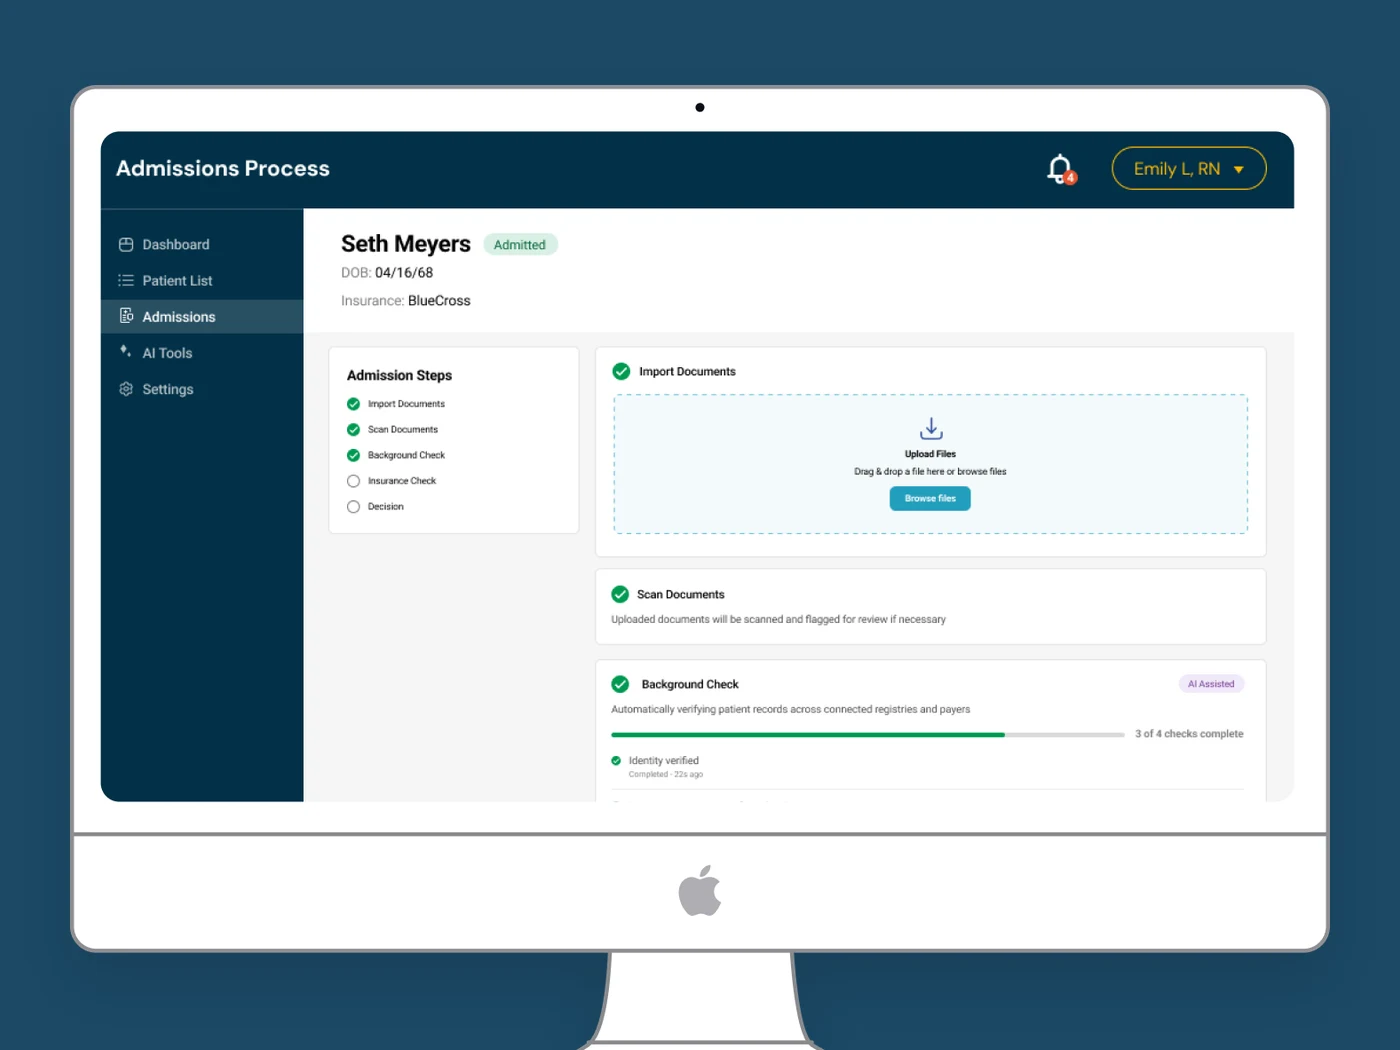
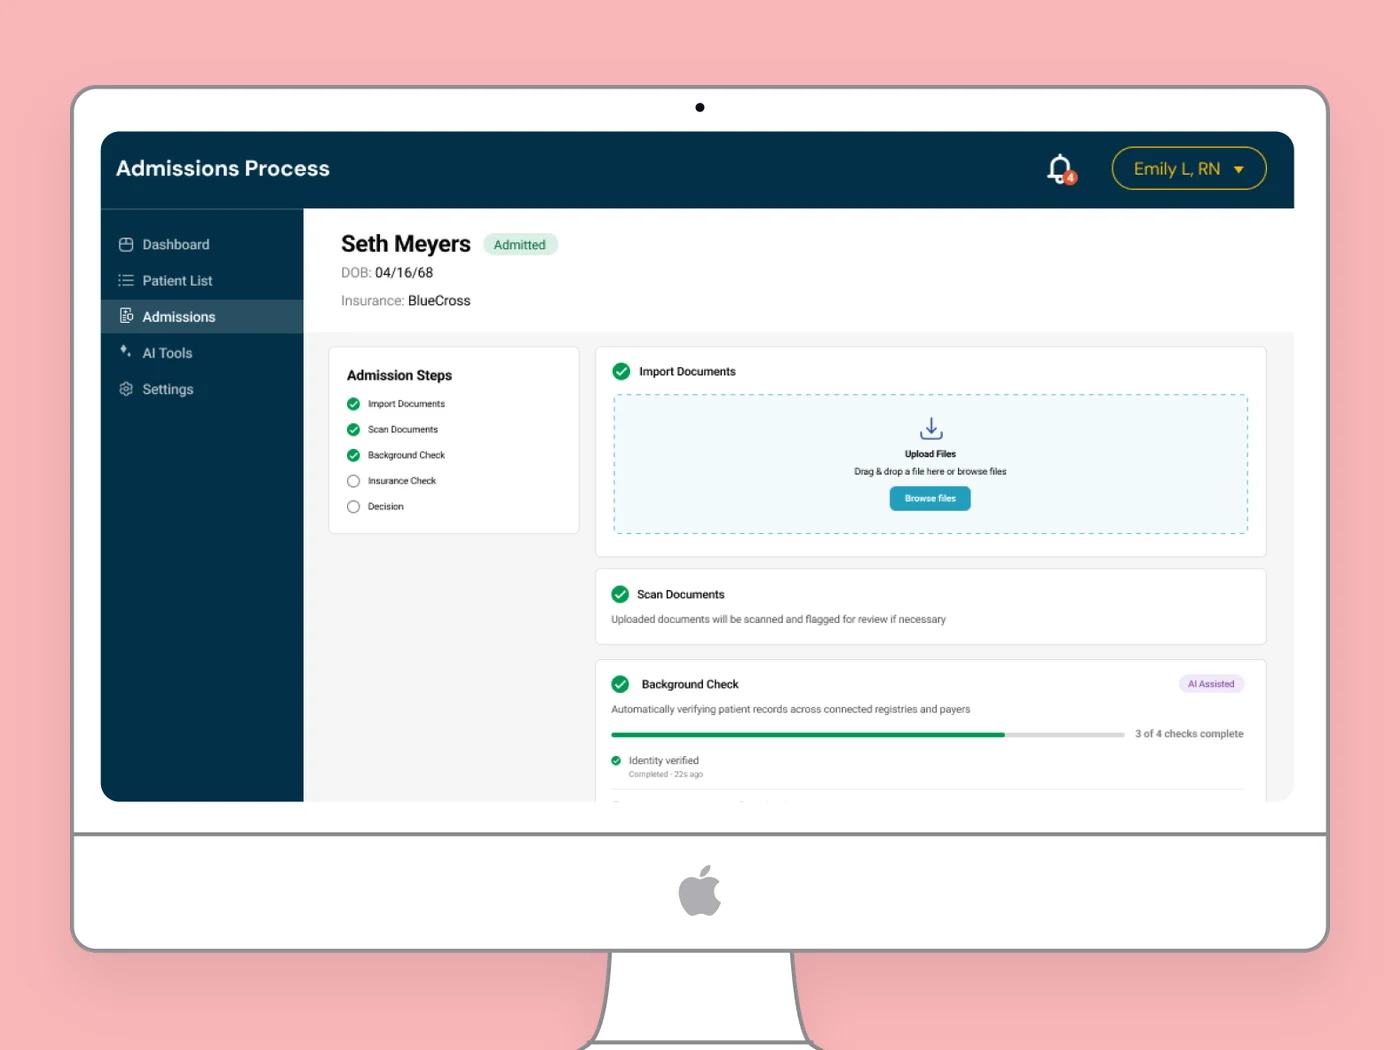
Site: new color palette (Crimson Ink, Dusty Rose, Cosmic Latte, Burnt Sienna, Arctic Blue) and recolored covers
Claude-Session: https://claude.ai/code/session_01YaSxYVnyE2Vr4vMTZscBbj

Changed region(s): [[0.0, 0.0, 1.0, 1.0]]

diff --git a/case-study-goodreads.html b/case-study-goodreads.html
@@ -20,35 +20,35 @@
 <link href="https://fonts.googleapis.com/css2?family=Rubik:ital,wght@0,400;0,500;0,600;0,700;1,500;1,600&display=swap" rel="stylesheet">
 <style>
   :root {
-    --paper: #FFFFFF;
-    --ink: #18181F;
-    --ink-soft: #6B6B76;
-    --line: #E7E6ED;
-    --accent: #C72A7C;
-    --accent-hover: #7B3294;
+    --paper: #F6F3CF;
+    --ink: #2B0E15;
+    --ink-soft: #6E5058;
+    --line: #E3DDAA;
+    --accent: #8B162B;
+    --accent-hover: #C9500E;
     --teal: #1B4965;
     padding-top: env(safe-area-inset-top, 0px);
     padding-bottom: env(safe-area-inset-bottom, 0px);
   }
   :root:not([data-theme="light"]) {
     @media (prefers-color-scheme: dark) {
-      --paper: #121117;
-      --ink: #EFEEF4;
-      --ink-soft: #A5A3B0;
-      --line: #2B2A34;
-      --accent: #F24EA3;
-      --accent-hover: #E896F0;
+      --paper: #2A0A12;
+      --ink: #F6F3CF;
+      --ink-soft: #D9BFB2;
+      --line: #4D1E29;
+      --accent: #F9B6B8;
+      --accent-hover: #F37521;
     }
   }
   :root[data-theme="dark"] {
-    --paper: #121117;
-    --ink: #EFEEF4;
-    --ink-soft: #A5A3B0;
-    --line: #2B2A34;
-    --accent: #F24EA3;
-    --accent-hover: #E896F0;
+    --paper: #2A0A12;
+    --ink: #F6F3CF;
+    --ink-soft: #D9BFB2;
+    --line: #4D1E29;
+    --accent: #F9B6B8;
+    --accent-hover: #F37521;
   }
-  .grad-synth-warm { background: linear-gradient(135deg,#E0247A 0%,#9A3796 55%,#4A2E6E 100%); }
+  .grad-synth-warm { background: linear-gradient(135deg,#8B162B 0%,#C9500E 55%,#5A1020 100%); }
 
   html { scroll-padding-top: env(safe-area-inset-top, 0px); }
   * { box-sizing: border-box; }
@@ -120,11 +120,11 @@
   }
 
   .disclaimer {
-    background: #FBEFF5; border-left: 3px solid var(--accent); border-radius: 4px;
+    background: #FADADC; border-left: 3px solid var(--accent); border-radius: 4px;
     padding: 14px 18px; font-size: 13px; color: var(--ink); margin: 0 0 40px; line-height: 1.6;
   }
-  :root[data-theme="dark"] .disclaimer { background: #2A1A22; }
-  @media (prefers-color-scheme: dark) { :root:not([data-theme="light"]) .disclaimer { background: #2A1A22; } }
+  :root[data-theme="dark"] .disclaimer { background: #3A1019; }
+  @media (prefers-color-scheme: dark) { :root:not([data-theme="light"]) .disclaimer { background: #3A1019; } }
 
   .block { margin: 40px 0; }
   .block p {
@@ -201,7 +201,7 @@
   .annot-phones figure { margin: 0; flex: 1 1 0; min-width: 0; }
   .ph { position: relative; border: 1px solid var(--line); border-radius: 18px; overflow: hidden; box-shadow: 0 12px 32px rgba(0,0,0,0.08); }
   .ph img { width: 100%; display: block; }
-  .hl { position: absolute; border: 2px solid var(--accent); border-radius: 6px; background: rgba(199,42,124,0.05); }
+  .hl { position: absolute; border: 2px solid var(--accent); border-radius: 6px; background: rgba(139,22,43,0.05); }
   .hl.r .pin { left: auto; right: -2px; transform: translate(45%, -55%); }
   .problem-list span.tag { display: inline-block; }
   .pin {
@@ -228,8 +228,8 @@
   .plist .more { padding: 0 4px 14px 42px; }
   .plist .more p { margin: 0 0 10px; font-size: 14px; color: var(--ink-soft); }
   .plist .tag { display: inline-block; margin: 0 6px 4px 0; font-size: 10.5px; letter-spacing: 0.06em; text-transform: uppercase; border-radius: 100px; padding: 3px 10px; border: 1px solid; }
-  .plist .tag.obs { color: var(--accent); border-color: var(--accent); background: rgba(199,42,124,0.08); }
-  .plist .tag.own { color: var(--accent-hover); border-color: var(--accent-hover); background: rgba(123,50,148,0.08); }
+  .plist .tag.obs { color: var(--accent); border-color: var(--accent); background: rgba(139,22,43,0.08); }
+  .plist .tag.own { color: var(--accent-hover); border-color: var(--accent-hover); background: rgba(201,80,14,0.08); }
   @media (prefers-reduced-motion: reduce) { .plist summary::after { transition: none; } }
 
   .plist a.tag { text-decoration: none; }
@@ -237,19 +237,19 @@
   .plist a.tag.rev:hover { background: rgba(27,73,101,0.16); }
   .plist .tag.test { color: var(--ink-soft); border-style: dashed; border-color: var(--ink-soft); background: transparent; }
   .pill-key { font-size: 12.5px; color: var(--ink-soft); margin: 4px 0 0; }
-  :root[data-theme="dark"] .plist .tag.rev { color: #6FD0E8; border-color: #6FD0E8; background: rgba(111,208,232,0.10); }
-  @media (prefers-color-scheme: dark) { :root:not([data-theme="light"]) .plist .tag.rev { color: #6FD0E8; border-color: #6FD0E8; background: rgba(111,208,232,0.10); } }
+  :root[data-theme="dark"] .plist .tag.rev { color: #BAD2E8; border-color: #BAD2E8; background: rgba(186,210,232,0.10); }
+  @media (prefers-color-scheme: dark) { :root:not([data-theme="light"]) .plist .tag.rev { color: #BAD2E8; border-color: #BAD2E8; background: rgba(186,210,232,0.10); } }
   .plist .more a:not(.tag) { color: var(--accent); text-underline-offset: 2px; }
   .plist .more a:not(.tag):hover { color: var(--accent-hover); }
 
-  .plist .tag.int { color: #17705F; border-color: #17705F; background: rgba(78,201,176,0.16); }
-  :root[data-theme="dark"] .plist .tag.int { color: #4EC9B0; border-color: #4EC9B0; background: rgba(78,201,176,0.12); }
-  @media (prefers-color-scheme: dark) { :root:not([data-theme="light"]) .plist .tag.int { color: #4EC9B0; border-color: #4EC9B0; background: rgba(78,201,176,0.12); } }
+  .plist .tag.int { color: #A94A0A; border-color: #A94A0A; background: rgba(243,117,33,0.16); }
+  :root[data-theme="dark"] .plist .tag.int { color: #F37521; border-color: #F37521; background: rgba(243,117,33,0.12); }
+  @media (prefers-color-scheme: dark) { :root:not([data-theme="light"]) .plist .tag.int { color: #F37521; border-color: #F37521; background: rgba(243,117,33,0.12); } }
   .reader { border: 1px solid var(--line); border-radius: 12px; padding: 22px 24px; margin: 16px 0 0; }
   .reader .who { display: flex; flex-wrap: wrap; gap: 8px; margin-bottom: 14px; }
-  .reader .who .tag { font-size: 10.5px; letter-spacing: 0.06em; text-transform: uppercase; border-radius: 100px; padding: 3px 10px; border: 1px solid #17705F; color: #17705F; background: rgba(78,201,176,0.16); }
-  :root[data-theme="dark"] .reader .who .tag { color: #4EC9B0; border-color: #4EC9B0; background: rgba(78,201,176,0.12); }
-  @media (prefers-color-scheme: dark) { :root:not([data-theme="light"]) .reader .who .tag { color: #4EC9B0; border-color: #4EC9B0; background: rgba(78,201,176,0.12); } }
+  .reader .who .tag { font-size: 10.5px; letter-spacing: 0.06em; text-transform: uppercase; border-radius: 100px; padding: 3px 10px; border: 1px solid #A94A0A; color: #A94A0A; background: rgba(243,117,33,0.16); }
+  :root[data-theme="dark"] .reader .who .tag { color: #F37521; border-color: #F37521; background: rgba(243,117,33,0.12); }
+  @media (prefers-color-scheme: dark) { :root:not([data-theme="light"]) .reader .who .tag { color: #F37521; border-color: #F37521; background: rgba(243,117,33,0.12); } }
   .reader ul { margin: 0 0 10px; padding-left: 20px; }
   .reader li { font-size: 14px; color: var(--ink-soft); margin-bottom: 6px; }
   .reader .small { font-size: 12.5px; color: var(--ink-soft); margin: 0; }
@@ -295,9 +295,9 @@
   .v2b { font-size: 12.5px; padding: 5px 12px; border-radius: 8px; border: 1px solid var(--line); color: var(--ink); background: var(--paper); }
   .v2list { list-style: none; margin: 0; padding: 0; display: grid; gap: 18px; }
   .v2list li { display: flex; gap: 14px; align-items: flex-start; }
-  .v2list .tag { display: inline-block; margin-top: 6px; font-size: 10.5px; letter-spacing: 0.06em; text-transform: uppercase; border-radius: 100px; padding: 3px 10px; border: 1px solid #17705F; color: #17705F; background: rgba(78,201,176,0.16); }
-  :root[data-theme="dark"] .v2list .tag { color: #4EC9B0; border-color: #4EC9B0; background: rgba(78,201,176,0.12); }
-  @media (prefers-color-scheme: dark) { :root:not([data-theme="light"]) .v2list .tag { color: #4EC9B0; border-color: #4EC9B0; background: rgba(78,201,176,0.12); } }
+  .v2list .tag { display: inline-block; margin-top: 6px; font-size: 10.5px; letter-spacing: 0.06em; text-transform: uppercase; border-radius: 100px; padding: 3px 10px; border: 1px solid #A94A0A; color: #A94A0A; background: rgba(243,117,33,0.16); }
+  :root[data-theme="dark"] .v2list .tag { color: #F37521; border-color: #F37521; background: rgba(243,117,33,0.12); }
+  @media (prefers-color-scheme: dark) { :root:not([data-theme="light"]) .v2list .tag { color: #F37521; border-color: #F37521; background: rgba(243,117,33,0.12); } }
   @media (max-width: 900px) { .anat { grid-template-columns: repeat(2, minmax(0, 1fr)); } .v2 { grid-template-columns: 1fr; gap: 28px; } }
   @media (max-width: 560px) { .anat { grid-template-columns: 1fr; } }
   @media (max-width: 700px) { .ph-flat { overflow-x: auto; } .zoomwrap { min-width: 640px; } .v2card { flex-direction: column; } .v2card img { width: 80px; height: 115px; } .newel { flex-wrap: wrap; } .v2 > * { min-width: 0; } }

diff --git a/index.html b/index.html
@@ -20,41 +20,41 @@
 <link href="https://fonts.googleapis.com/css2?family=Rubik:ital,wght@0,400;0,500;0,600;0,700;1,500;1,600&display=swap" rel="stylesheet">
 <style>
   :root {
-    --paper: #FFFFFF;
-    --ink: #18181F;
-    --ink-soft: #6B6B76;
-    --line: #E7E6ED;
-    --accent: #C72A7C;
-    --accent-hover: #7B3294;
+    --paper: #F6F3CF;
+    --ink: #2B0E15;
+    --ink-soft: #6E5058;
+    --line: #E3DDAA;
+    --accent: #8B162B;
+    --accent-hover: #C9500E;
     padding-top: env(safe-area-inset-top, 0px);
     padding-bottom: env(safe-area-inset-bottom, 0px);
   }
   :root:not([data-theme="light"]) {
     @media (prefers-color-scheme: dark) {
-      --paper: #121117;
-      --ink: #EFEEF4;
-      --ink-soft: #A5A3B0;
-      --line: #2B2A34;
-      --accent: #F24EA3;
-      --accent-hover: #E896F0;
+      --paper: #2A0A12;
+      --ink: #F6F3CF;
+      --ink-soft: #D9BFB2;
+      --line: #4D1E29;
+      --accent: #F9B6B8;
+      --accent-hover: #F37521;
     }
   }
   :root[data-theme="dark"] {
-    --paper: #121117;
-    --ink: #EFEEF4;
-    --ink-soft: #A5A3B0;
-    --line: #2B2A34;
-    --accent: #F24EA3;
-    --accent-hover: #E896F0;
+    --paper: #2A0A12;
+    --ink: #F6F3CF;
+    --ink-soft: #D9BFB2;
+    --line: #4D1E29;
+    --accent: #F9B6B8;
+    --accent-hover: #F37521;
   }
 
   /* gradient tile tokens, derived from the two reference palettes */
-  .grad-synth      { background: linear-gradient(135deg,#E0247A 0%,#7B3294 32%,#332B5E 60%,#1B4965 82%,#4EC9B0 100%); }
-  .grad-synth-warm { background: linear-gradient(135deg,#E0247A 0%,#9A3796 55%,#4A2E6E 100%); }
-  .grad-synth-cool { background: linear-gradient(135deg,#332B5E 0%,#1B4965 55%,#4EC9B0 100%); }
-  .grad-outrun     { background: linear-gradient(135deg,#140F3C 0%,#241B7A 28%,#C4568A 58%,#E896F0 82%,#6FD0E8 100%); }
+  .grad-synth      { background: linear-gradient(135deg,#8B162B 0%,#C9500E 32%,#332B5E 60%,#1B4965 82%,#F37521 100%); }
+  .grad-synth-warm { background: linear-gradient(135deg,#8B162B 0%,#C9500E 55%,#5A1020 100%); }
+  .grad-synth-cool { background: linear-gradient(135deg,#332B5E 0%,#1B4965 55%,#F37521 100%); }
+  .grad-outrun     { background: linear-gradient(135deg,#140F3C 0%,#241B7A 28%,#C4568A 58%,#F37521 82%,#BAD2E8 100%); }
   .grad-outrun-dark{ background: linear-gradient(135deg,#140F3C 0%,#241B7A 55%,#C4568A 100%); }
-  .grad-outrun-pop { background: linear-gradient(135deg,#C4568A 0%,#E896F0 55%,#6FD0E8 100%); }
+  .grad-outrun-pop { background: linear-gradient(135deg,#C4568A 0%,#F37521 55%,#BAD2E8 100%); }
 
   html { scroll-padding-top: env(safe-area-inset-top, 0px); }
   * { box-sizing: border-box; }
@@ -234,9 +234,9 @@
   }
 
   /* gradient placeholders from the Synthwave and Outrun palettes */
-  .grad-synth      { background: linear-gradient(135deg,#E0247A 0%,#7B3294 32%,#332B5E 60%,#1B4965 82%,#4EC9B0 100%); }
-  .grad-outrun     { background: linear-gradient(135deg,#140F3C 0%,#241B7A 28%,#C4568A 58%,#E896F0 82%,#6FD0E8 100%); }
-  .grad-outrun-pop { background: linear-gradient(135deg,#C4568A 0%,#E896F0 55%,#6FD0E8 100%); }
+  .grad-synth      { background: linear-gradient(135deg,#8B162B 0%,#C9500E 32%,#332B5E 60%,#1B4965 82%,#F37521 100%); }
+  .grad-outrun     { background: linear-gradient(135deg,#140F3C 0%,#241B7A 28%,#C4568A 58%,#F37521 82%,#BAD2E8 100%); }
+  .grad-outrun-pop { background: linear-gradient(135deg,#C4568A 0%,#F37521 55%,#BAD2E8 100%); }
 
   @media (prefers-reduced-motion: reduce) {
     .tile-visual, .tile-cover, .tile-bg, .tile-title, .tile-cta .arrow { transition: none; }
@@ -370,7 +370,7 @@
       <!-- PROJECT 4 (coming soon) -->
       <div class="tile soon" aria-label="Coming soon">
         <div class="tile-visual">
-          <div class="tile-bg" style="background:linear-gradient(135deg,#C9B6E4 0%,#F0D3EE 55%,#F9D6E8 100%)"></div>
+          <div class="tile-bg" style="background:#F9B6B8"></div>
         </div>
         <div class="tile-caption">
           <div class="tile-meta">Concept project · 2026</div>

diff --git a/case-study-filters.html b/case-study-filters.html
@@ -18,35 +18,35 @@
 <link href="https://fonts.googleapis.com/css2?family=Rubik:ital,wght@0,400;0,500;0,600;0,700;1,500;1,600&display=swap" rel="stylesheet">
 <style>
   :root {
-    --paper: #FFFFFF;
-    --ink: #18181F;
-    --ink-soft: #6B6B76;
-    --line: #E7E6ED;
-    --accent: #C72A7C;
-    --accent-hover: #7B3294;
+    --paper: #F6F3CF;
+    --ink: #2B0E15;
+    --ink-soft: #6E5058;
+    --line: #E3DDAA;
+    --accent: #8B162B;
+    --accent-hover: #C9500E;
     --teal: #1B4965;
     padding-top: env(safe-area-inset-top, 0px);
     padding-bottom: env(safe-area-inset-bottom, 0px);
   }
   :root:not([data-theme="light"]) {
     @media (prefers-color-scheme: dark) {
-      --paper: #121117;
-      --ink: #EFEEF4;
-      --ink-soft: #A5A3B0;
-      --line: #2B2A34;
-      --accent: #F24EA3;
-      --accent-hover: #E896F0;
+      --paper: #2A0A12;
+      --ink: #F6F3CF;
+      --ink-soft: #D9BFB2;
+      --line: #4D1E29;
+      --accent: #F9B6B8;
+      --accent-hover: #F37521;
     }
   }
   :root[data-theme="dark"] {
-    --paper: #121117;
-    --ink: #EFEEF4;
-    --ink-soft: #A5A3B0;
-    --line: #2B2A34;
-    --accent: #F24EA3;
-    --accent-hover: #E896F0;
+    --paper: #2A0A12;
+    --ink: #F6F3CF;
+    --ink-soft: #D9BFB2;
+    --line: #4D1E29;
+    --accent: #F9B6B8;
+    --accent-hover: #F37521;
   }
-  .grad-synth-warm { background: linear-gradient(135deg,#E0247A 0%,#9A3796 55%,#4A2E6E 100%); }
+  .grad-synth-warm { background: linear-gradient(135deg,#8B162B 0%,#C9500E 55%,#5A1020 100%); }
 
   html { scroll-padding-top: env(safe-area-inset-top, 0px); }
   * { box-sizing: border-box; }
@@ -118,11 +118,11 @@
   }
 
   .disclaimer {
-    background: #FBEFF5; border-left: 3px solid var(--accent); border-radius: 4px;
+    background: #FADADC; border-left: 3px solid var(--accent); border-radius: 4px;
     padding: 14px 18px; font-size: 13px; color: var(--ink); margin: 0 0 40px; line-height: 1.6;
   }
-  :root[data-theme="dark"] .disclaimer { background: #2A1A22; }
-  @media (prefers-color-scheme: dark) { :root:not([data-theme="light"]) .disclaimer { background: #2A1A22; } }
+  :root[data-theme="dark"] .disclaimer { background: #3A1019; }
+  @media (prefers-color-scheme: dark) { :root:not([data-theme="light"]) .disclaimer { background: #3A1019; } }
 
   .block { margin: 40px 0; }
   .block p {
@@ -176,7 +176,7 @@
   .qf-row { display: flex; flex-wrap: wrap; gap: 10px; align-items: center; }
   .qf-pill { display: inline-flex; align-items: center; gap: 8px; padding: 9px 14px; border: 1px solid var(--line); border-radius: 8px; font-size: 13px; color: var(--ink-soft); }
   .qf-pill::after { content: ""; width: 6px; height: 6px; border-right: 1.5px solid currentColor; border-bottom: 1.5px solid currentColor; transform: rotate(45deg) translateY(-2px); }
-  .qf-pill.hot { border-color: var(--accent); color: var(--accent); background: rgba(199,42,124,0.07); font-weight: 500; }
+  .qf-pill.hot { border-color: var(--accent); color: var(--accent); background: rgba(139,22,43,0.07); font-weight: 500; }
   .qf-pill.btn { border-style: dashed; color: var(--ink); }
   .qf-pill.btn::after { display: none; }
   .qf-note { font-size: 13px; color: var(--ink); margin-top: 10px; }

diff --git a/case-study-admissions.html b/case-study-admissions.html
@@ -20,29 +20,29 @@
 <link href="https://fonts.googleapis.com/css2?family=Rubik:ital,wght@0,400;0,500;0,600;0,700;1,500;1,600&display=swap" rel="stylesheet">
 <style>
   :root {
-    --paper: #FFFFFF;
-    --ink: #18181F;
-    --ink-soft: #6B6B76;
-    --line: #E7E6ED;
-    --accent: #C72A7C;
+    --paper: #F6F3CF;
+    --ink: #2B0E15;
+    --ink-soft: #6E5058;
+    --line: #E3DDAA;
+    --accent: #8B162B;
     padding-top: env(safe-area-inset-top, 0px);
     padding-bottom: env(safe-area-inset-bottom, 0px);
   }
   :root:not([data-theme="light"]) {
     @media (prefers-color-scheme: dark) {
-      --paper: #121117;
-      --ink: #EFEEF4;
-      --ink-soft: #A5A3B0;
-      --line: #2B2A34;
-      --accent: #F24EA3;
+      --paper: #2A0A12;
+      --ink: #F6F3CF;
+      --ink-soft: #D9BFB2;
+      --line: #4D1E29;
+      --accent: #F9B6B8;
     }
   }
   :root[data-theme="dark"] {
-    --paper: #121117;
-    --ink: #EFEEF4;
-    --ink-soft: #A5A3B0;
-    --line: #2B2A34;
-    --accent: #F24EA3;
+    --paper: #2A0A12;
+    --ink: #F6F3CF;
+    --ink-soft: #D9BFB2;
+    --line: #4D1E29;
+    --accent: #F9B6B8;
   }
 
   html { scroll-padding-top: env(safe-area-inset-top, 0px); }
@@ -111,11 +111,11 @@
   }
 
   .disclaimer {
-    background: #FBEFF5; border-left: 3px solid var(--accent); border-radius: 4px;
+    background: #FADADC; border-left: 3px solid var(--accent); border-radius: 4px;
     padding: 14px 18px; font-size: 13px; color: var(--ink); margin: 0 0 40px; line-height: 1.6;
   }
-  :root[data-theme="dark"] .disclaimer { background: #2A1A22; }
-  @media (prefers-color-scheme: dark) { :root:not([data-theme="light"]) .disclaimer { background: #2A1A22; } }
+  :root[data-theme="dark"] .disclaimer { background: #3A1019; }
+  @media (prefers-color-scheme: dark) { :root:not([data-theme="light"]) .disclaimer { background: #3A1019; } }
 
   .block { margin: 40px 0; }
   .block p { font-size: 14.5px; color: var(--ink-soft); margin: 0 0 14px; }
